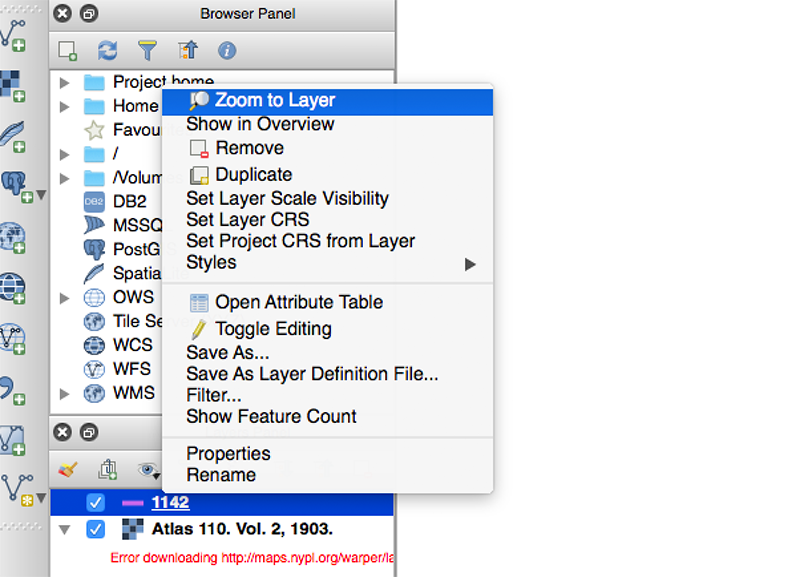
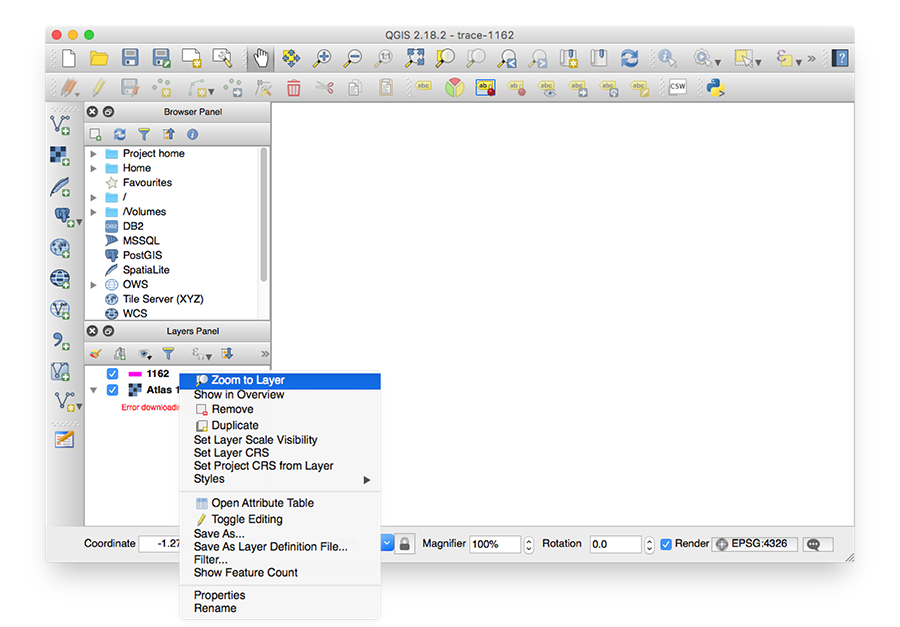
yes

diff --git a/README.md b/README.md
@@ -4,14 +4,29 @@ New York's streets have changed a lot over time: new street grids were projected
 
 Some examples:
 
-- [1857 map of the Lower East Side, overlayed over OpenStreetMap](http://maps.nypl.org/warper/maps/7135#Preview_tab)
-- [Talman Street in Brooklyn](http://maps.nypl.org/warper/maps/19260#Preview_tab), gone after the construction of the Brooklyn-Queens Expressway (today, there is [no more Talman Street](https://www.openstreetmap.org/search?query=talman%20street%2C%20brooklyn#map=17/41.52250/-72.07183) in New York City)
+- [1857 map of the Lower East Side](http://maps.nypl.org/warper/maps/7135#Preview_tab)
+- [Talman Street in Brooklyn](http://maps.nypl.org/warper/maps/19260#Preview_tab), gone after the construction of the Brooklyn-Queens Expressway (today, there is [no more Talman Street](https://www.openstreetmap.org/search?query=talman%20street%2C%20brooklyn#map=17/41.52250/-72.07183) to be found in New York City)
 
 [![](images/talman-street.jpg)](https://digitalcollections.nypl.org/items/510d47d9-4f8c-a3d9-e040-e00a18064a99)
 
-Yet, it's very important having data about the changing names and location of New York City's streets; we need this data to to georeference [city directories](https://digitalcollections.nypl.org/items/3ec3e000-5298-0134-997b-00505686a51c#/?uuid=4223d090-5298-0134-198a-00505686a51c), to make maps of [historical photos](https://www.oldnyc.org/), and to allow patrons to geographically browse the Library's [Digital Collections](https://digitalcollections.nypl.org/).
+Yet, it's very important having data about the changing names and shapes of New York City's streets; we need this data to to georeference [city directories](https://digitalcollections.nypl.org/items/3ec3e000-5298-0134-997b-00505686a51c#/?uuid=4223d090-5298-0134-198a-00505686a51c), to make maps of [historical photos](https://www.oldnyc.org/), and to allow patrons to geographically browse the Library's [Digital Collections](https://digitalcollections.nypl.org/).
 
-__We need your help! See below how you can help us tracing streets from historic maps, using QGIS.__
+## Contributing
+
+Historical street data are an important part of NYPL's [NYC Space/Time Directory project](http://spacetime.nypl.org/). By combining [data](http://buildinginspector.nypl.org/data) from [Building Inspector](http://buildinginspector.nypl.org/), NYPL's website for crowdsourced extraction of historical building footprints and addresses, with the locations and names of historical streets, it is possible to create search tools and visualizations for historical addresses. To see how this is done in detail, see https://github.com/bertspaan/tutorial-historical-addresses.
+
+The latest historical street data can be found here: https://github.com/nypl-spacetime/nyc-historical-streets. We have started tracing some of the maps ourselves, but there are many maps and atlases with which we need your help!
+
+How to contribute:
+
+- See https://github.com/nypl-spacetime/nyc-historical-streets for up-to-date list of maps and atlases
+- Fork the repository!
+- Use QGIS to make changes to a Shapefile
+- Submit a [pull request](https://help.github.com/articles/about-pull-requests/)
+
+__To keep track of who is doing what, please send an email to bertspaan@nypl.org before you start (or open an issue in the original GitHub repository.__
+
+For more information about contributing to the NYC Space/Time Directory, see http://spacetime.nypl.org/#contributing.
 
 ## Getting Ready
 
@@ -21,7 +36,7 @@ First, download [QGIS](http://www.qgis.org/en/site/forusers/download.html), and 
 
 ### Keyboard shortcuts
 
-By default, QGIS does not have convenient keyboard shortcuts for creating and editing polygonal lines. This repository contains a QGIS shortcut definitions file: [`qgis-shortcuts.xml`](qgis-shortcuts.xml). Download this file, choose _Settings ⟶ Configure Shortcuts..._, and select this file.
+By default, QGIS does not have very convenient keyboard shortcuts for creating and editing polygonal lines. This repository contains a QGIS shortcut definitions file: [`qgis-shortcuts.xml`](qgis-shortcuts.xml). Download this file, choose _Settings ⟶ Configure Shortcuts..._, click _Load..._ and select the shortcut XML file.
 
 ![](images/configure-shortcuts.png)
 
@@ -39,13 +54,27 @@ Keyboard shortcuts:
 - `Spacebar`: pan map tool
 - To finish editing a line, right click anywhere in the map
 
-## Using an existing project
+## Improving existing data
+
+### Setting up
+
+- Pick a map or atlas from https://github.com/nypl-spacetime/nyc-historical-streets
+- Fork and clone this GitHub repository:
+
+    git clone https://github.com/<your-github-name>/nyc-historical-streets
+
+- Open the map or atlas's QGIS project (e.g. `1162/trace-1162.qgs`)
+- Zoom to the extent of the street data by right-clicking on the layer in the _Layers Panel_, and clicking _Zoom to Layer_:
+
+![](images/zoom-to-layer.png)
+
+### Tracing
 
 ## Starting a new project
 
-http://maps.nypl.org/warper/layers/1162
+This section describes creating a new street trace project in QGIS.
 
-This section describes
+### Setting up
 
 - Create a new QGIS project
 - Add the historical map as base layer:
@@ -99,3 +128,7 @@ This section describes
 - Add a buffer around the labels for better visibility
 
 ![](images/text-buffer.png)
+
+### Tracing
+
+See the _Tracing_ paragraph in the _Improving existing data_ section.
